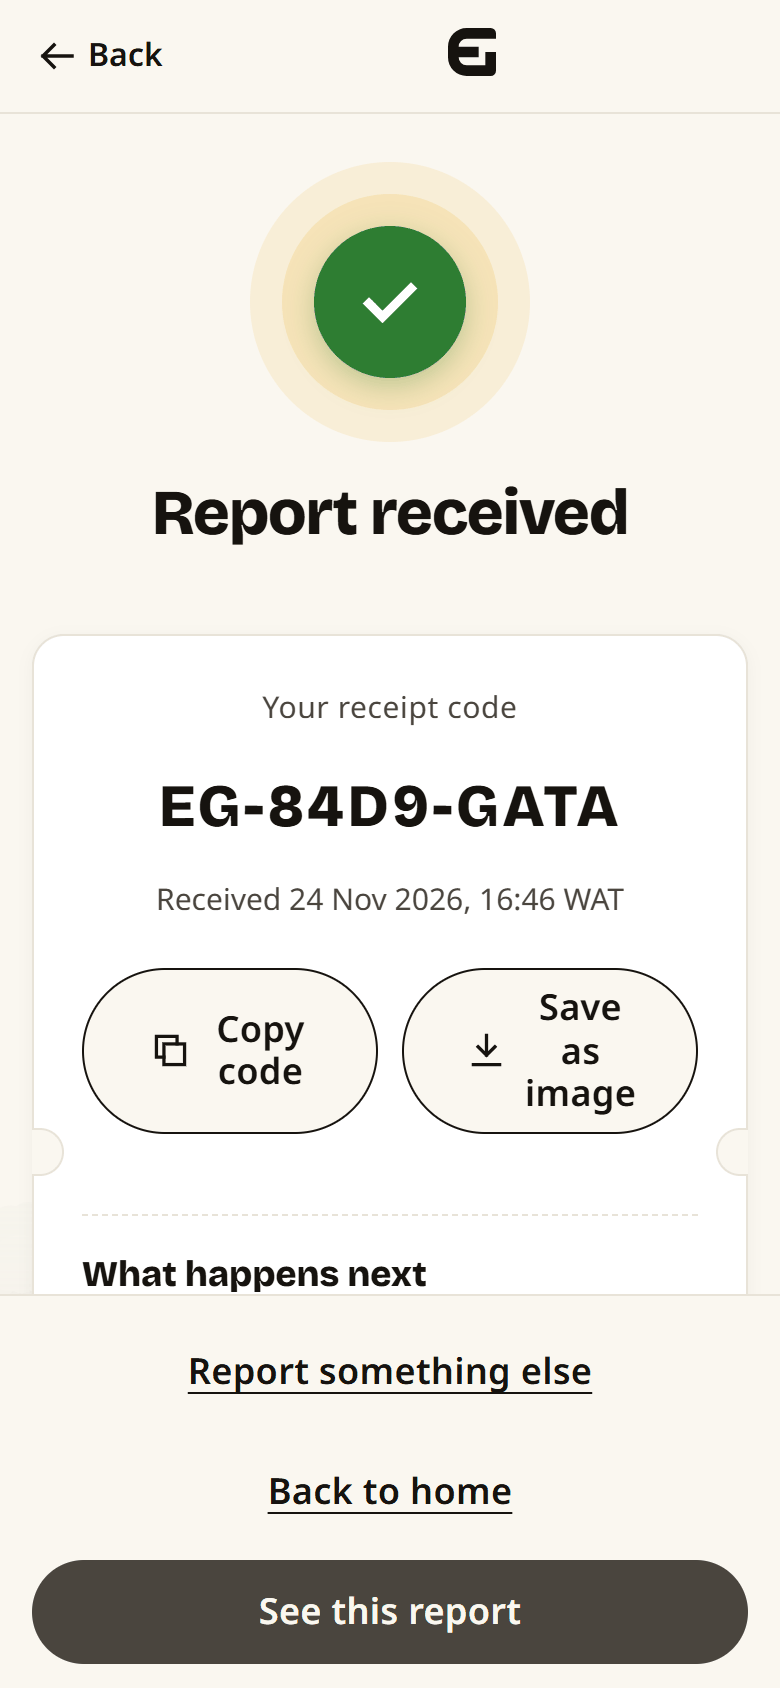
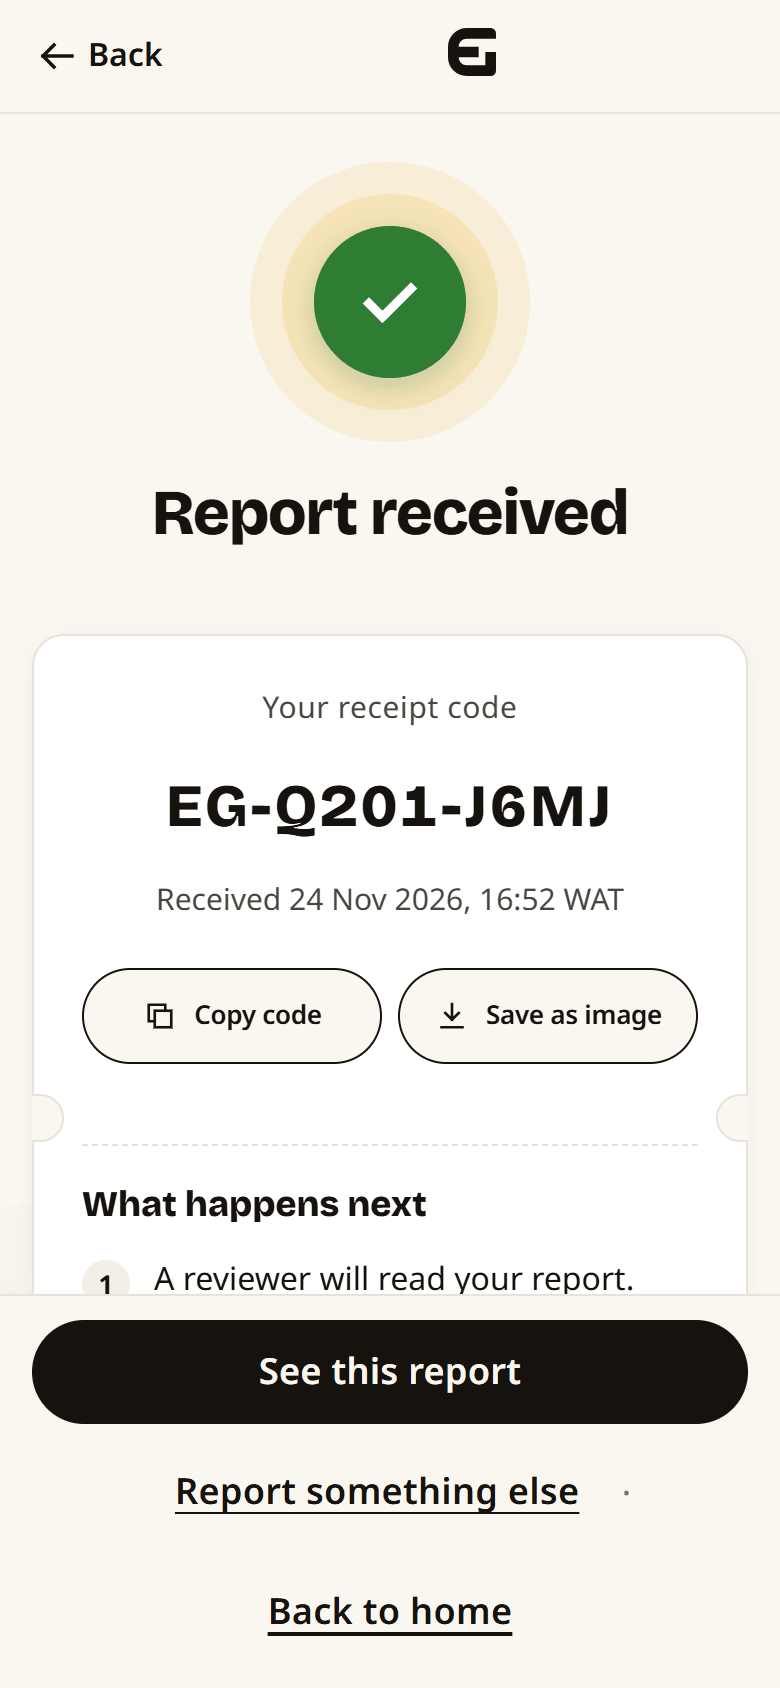
Polish receipt screen button layout and next steps

diff --git a/frontend/app/(observer)/o/_views/ReceiptView.tsx b/frontend/app/(observer)/o/_views/ReceiptView.tsx
@@ -53,30 +53,35 @@ export function ReceiptView({ code, receivedAt, justSent, citizen, items, remove
       onBack={onHome}
       offline={offline}
       actions={
-        <>
-          <Button variant="quiet" block onClick={onAnother} data-testid="o12-another">
-            {t("o12.another")}
-          </Button>
+        <div className={styles.receiptFooterActions}>
           {onView ? (
-            <>
-              <Button variant="quiet" block onClick={onHome} data-testid="o12-home">
-                {t("o12.home")}
-              </Button>
-              <Button block onClick={onView} data-testid="o12-view">
-                {t("o12.viewReport")}
-              </Button>
-            </>
+            <Button block onClick={onView} data-testid="o12-view">
+              {t("o12.viewReport")}
+            </Button>
           ) : (
             <Button block onClick={onHome} data-testid="o12-home">
               {t("o12.home")}
             </Button>
           )}
-        </>
+          <div className={styles.receiptQuietLinks}>
+            <Button variant="quiet" onClick={onAnother} data-testid="o12-another">
+              {t("o12.another")}
+            </Button>
+            {onView ? (
+              <>
+                <span className={styles.quietSep} aria-hidden="true">·</span>
+                <Button variant="quiet" onClick={onHome} data-testid="o12-home">
+                  {t("o12.home")}
+                </Button>
+              </>
+            ) : null}
+          </div>
+        </div>
       }
       data-testid="o12"
     >
       <BackgroundArt variant="soft" />
-      <div className={`${styles.screen} ${styles.wide}`}>
+      <div className={`${styles.screen} ${styles.wide} ${styles.receiptScreen}`}>
         <div className={styles.receiptTopHeader}>
           <div className={styles.receiptSunRings} aria-hidden="true">
             <div className={styles.receiptRingOuter}>

diff --git a/frontend/ui/ReceiptCard/ReceiptCard.module.css b/frontend/ui/ReceiptCard/ReceiptCard.module.css
@@ -86,8 +86,30 @@
 .actions {
   display: grid;
   grid-template-columns: 1fr 1fr;
-  gap: var(--s-3);
+  gap: var(--s-2, 8px);
   margin-top: var(--s-3);
+  width: 100%;
+}
+
+.actions button {
+  min-height: 48px;
+  height: 48px;
+  padding: 0 var(--s-2, 8px);
+  font-size: 0.8125rem;
+  font-weight: 600;
+  letter-spacing: -0.01em;
+  white-space: nowrap;
+  display: inline-flex;
+  align-items: center;
+  justify-content: center;
+  gap: 6px;
+  width: 100%;
+}
+
+.actions button svg {
+  flex: none;
+  width: 18px;
+  height: 18px;
 }
 
 .copyStatus {

diff --git a/frontend/app/(observer)/o/_components/observer.module.css b/frontend/app/(observer)/o/_components/observer.module.css
@@ -860,6 +860,30 @@
   gap: var(--s-4);
 }
 
+.receiptScreen {
+  padding-bottom: calc(var(--s-6, 28px) + 7.5rem);
+}
+
+.receiptFooterActions {
+  display: flex;
+  flex-direction: column;
+  gap: var(--s-2, 8px);
+  width: 100%;
+}
+
+.receiptQuietLinks {
+  display: flex;
+  align-items: center;
+  justify-content: center;
+  gap: var(--s-2, 8px);
+  flex-wrap: wrap;
+}
+
+.quietSep {
+  color: var(--ink-3, #756f66);
+  user-select: none;
+}
+
 /* ---------- Report not received yet (O-12 from Home) ---------- */
 
 .noCode {
